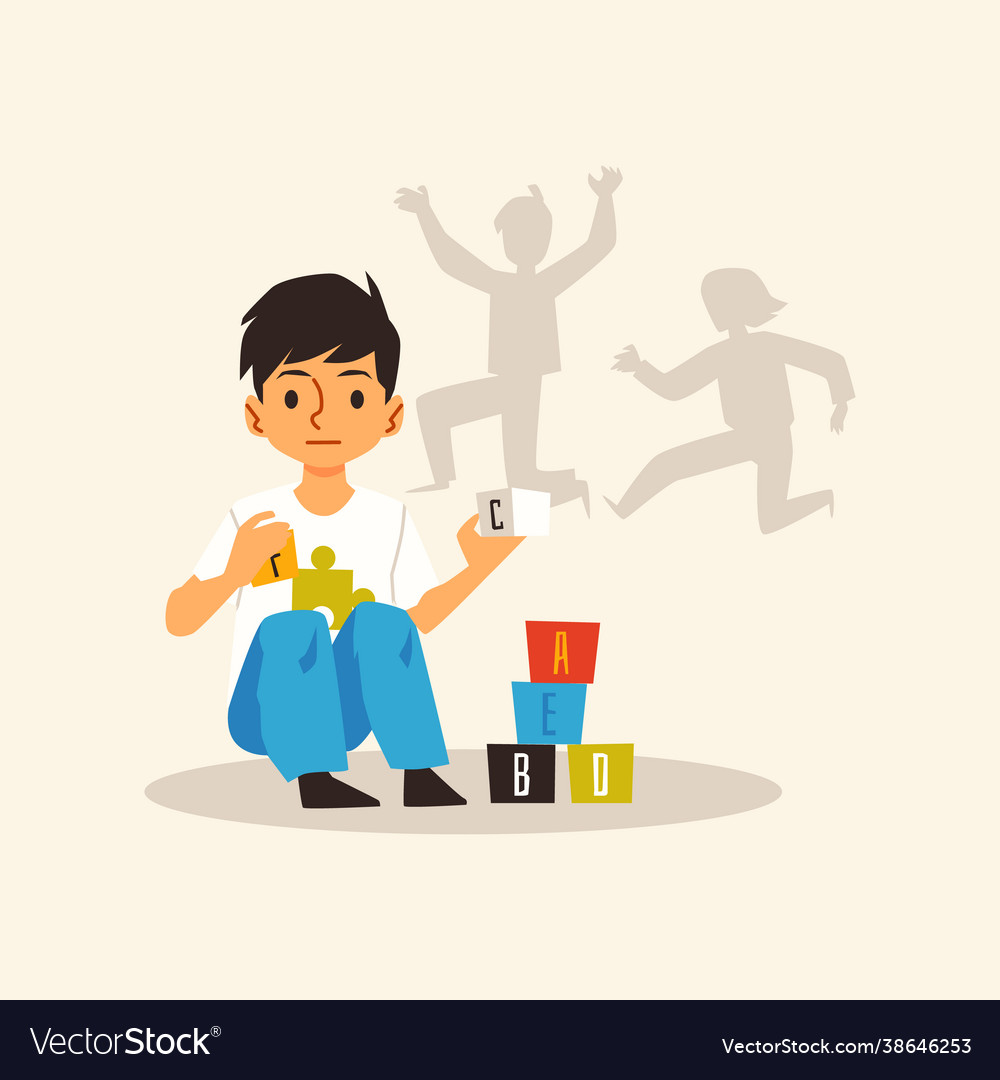
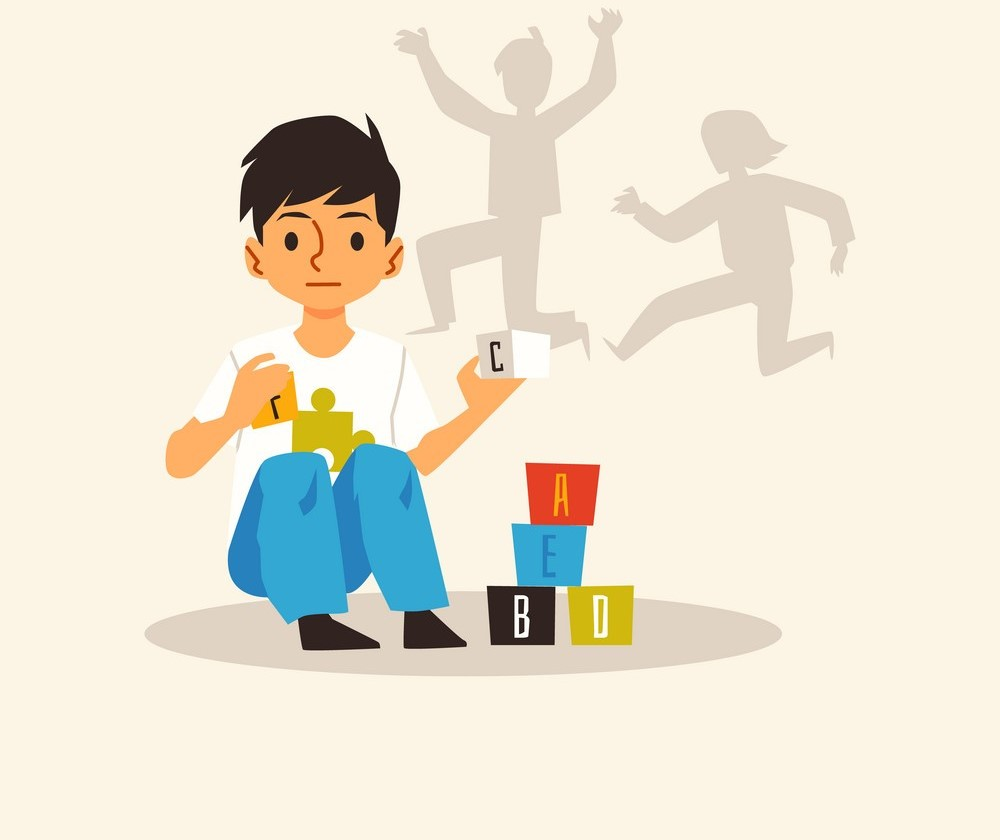
about section done

diff --git a/index.html b/index.html
@@ -7,18 +7,43 @@
         <link rel="stylesheet" href="/styles.css"/>
         <link rel="preconnect" href="https://fonts.googleapis.com">
         <link rel="preconnect" href="https://fonts.gstatic.com" crossorigin>
-        <link href="https://fonts.googleapis.com/css2?family=Oxygen:wght@300;400;700&family=Roboto+Serif:ital,opsz,wght@0,8..144,100..900;1,8..144,100..900&display=swap" rel="stylesheet">
-    </head>
+        <link href="https://fonts.googleapis.com/css2?family=Montserrat:ital,wght@0,100..900;1,100..900&family=Oxygen:wght@300;400;700&family=Roboto+Serif:ital,opsz,wght@0,8..144,100..900;1,8..144,100..900&display=swap" rel="stylesheet">
     <body>
-        <div class="topnav">
-            <img src="/images/spectrumshinelogo.png" height=45px width="45px"/>
-            <a class="active" href="#name">SpectrumShine.Org</a>   
-            <div id="navbar" class="topnav-right">
-              <a href="#about">About Us</a>
-              <a href="#asd">Whats is ASD?</a>
-              <a href="#help">How I Can Help?</a>
-              <a href="#resources">Resources</a>
+        <header>
+            <div class="topnav">
+                <img id="img-logo" src="/images/spectrumshinelogo.png" height=45px width="45px"/>
+                <a class="active" href="#name">SpectrumShine.Org</a>   
+                <div id="navbar" class="topnav-right">
+                  <a href="#about">Resources</a>
+                  <a href="#help">How I Can Help?</a>
+                  <a href="#asd">Whats is ASD?</a>         
+                  <a href="#resources">About Us</a>
+                </div>
             </div>
-          </div>
+        </header>
+
+
+        <section id="about">
+            <div class="about-container">
+                <img id="img-main" src="/images/alone-kid-boy-with-autism-syndrome-playing-vector-38646253.jpg" height= 500px width="600px"/>
+                <div class="about-info">
+                    <p class="big-txt">Learn more about autism and how to help children with it.</p>
+                    <p>SpectrumShine.Org provides insights on how autism affects children and methods to improve interaction with them.</p>
+                    <a href="www.google.com"><button id="donate-btn">Donate</button></a>
+                </div>
+            </div>
+        </section>
+
+        <section id="help">
+            
+        </section>
+
+        <section id="asd">
+            
+        </section>
+
+        <section id="resources">
+            
+        </section>
     </body>
 </html>

diff --git a/styles.css b/styles.css
@@ -5,18 +5,19 @@
 }
 
 body {
-    background-color: #FFFDF6;
+    background-color: #fcf5e5;
+    font-family: Montserrat;
+    overflow: hidden;
 }
 
 #navbbar {
     position: sticky;
     top: 0;
-    overflow: hidden;
 }
 
 /* Add a black background color to the top navigation */
 .topnav {
-    background-color: #FFFDF6;
+    background-color: #fcf5e5;
     overflow: hidden;
 }
 
@@ -26,7 +27,6 @@ body {
   color: black;
   text-align: center;
   text-decoration: none;
-  font-family: oxygen;
 }
 
 .topnav .active {
@@ -34,7 +34,6 @@ body {
     padding-left: 80px;
     font-size: 25px;
 }
-
 
 /* Change the color of links on hover */
 .topnav a:hover {
@@ -47,7 +46,7 @@ body {
     float: right;
 }
 
-img {
+#img-logo {
     position: fixed; 
     left: 23px; 
     top: 20px;
@@ -55,4 +54,45 @@ img {
 
 img:hover {
     cursor: pointer;
+}
+
+.about-container {
+    margin: auto;
+    margin-left: 300px;
+    margin-right: 300px;
+}
+
+#img-main {
+    position: relative;
+    top: 20px;
+}
+
+.about-container img {
+    float: left;
+    margin-right: 50px;
+}
+
+.about-info {
+    padding-top: 85px;
+}
+
+.big-txt {
+    font-size: 2.5rem;
+    margin-bottom: 20px;
+}
+
+#donate-btn {
+    margin-top: 80px;
+    background-color: #f0e926;
+    border: none;
+    padding: 12px 32px;
+    font-weight: bold;
+    font-family: Montserrat;
+    border-radius: 8px;
+    font-size: 15px;
+}
+
+#donate-btn:hover {
+    cursor: pointer;
+    background-color: #e8e123;
 }
